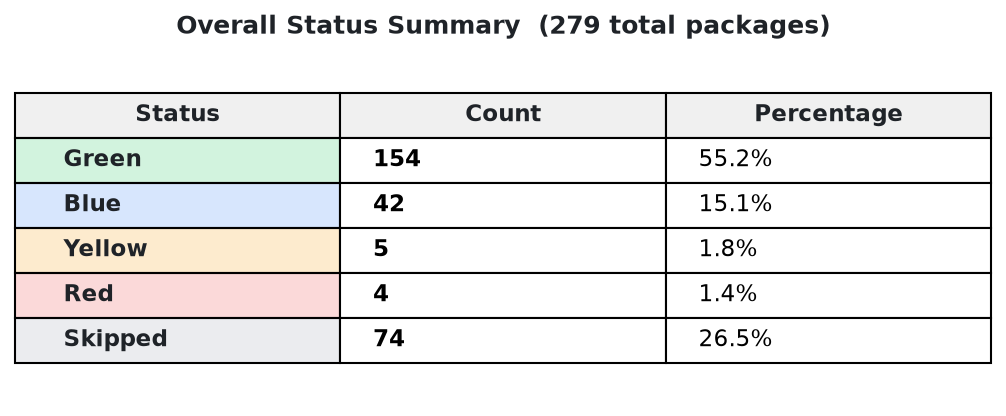
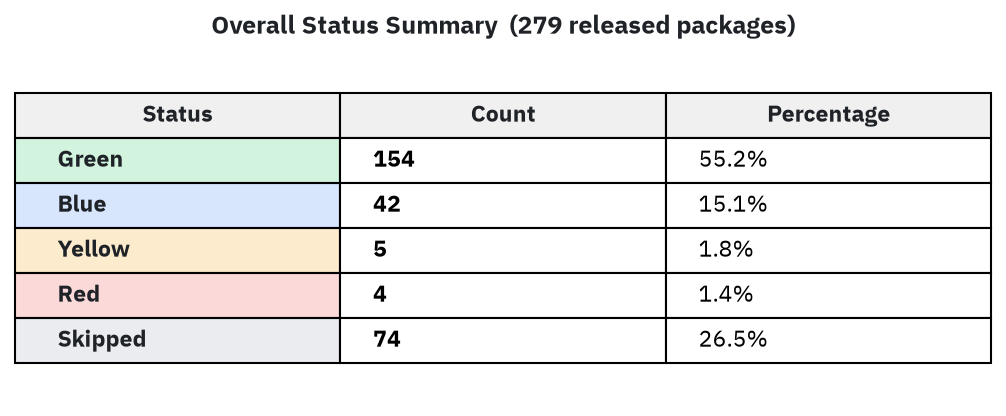
fix: clarify 279 released vs 345 total; add IBM Plex Sans to charts; label centre 'released'

diff --git a/tools/getbinaries.py b/tools/getbinaries.py
@@ -14,8 +14,35 @@ import re # Ensure re is imported
 import subprocess # Keep if still used
 import shutil # Keep if still used
 from itertools import chain # Keep if still used
-rcParams.update({'figure.autolayout': True}) # Keep if still used
+rcParams.update({'figure.autolayout': True})
 import html # For escaping attribute values
+import urllib.request
+import tempfile
+import matplotlib.font_manager as fm
+
+def _load_ibm_plex_sans():
+    """Download IBM Plex Sans TTF files from the IBM/plex repo and register
+    them with matplotlib. Falls back silently to the default sans-serif font
+    if the download fails (e.g. no network on the build host)."""
+    PLEX_URLS = {
+        "IBMPlexSans-Regular":  "https://github.com/IBM/plex/raw/refs/heads/master/packages/plex-sans/fonts/complete/ttf/IBMPlexSans-Regular.ttf",
+        "IBMPlexSans-Bold":     "https://github.com/IBM/plex/raw/refs/heads/master/packages/plex-sans/fonts/complete/ttf/IBMPlexSans-Bold.ttf",
+        "IBMPlexSans-SemiBold": "https://github.com/IBM/plex/raw/refs/heads/master/packages/plex-sans/fonts/complete/ttf/IBMPlexSans-SemiBold.ttf",
+    }
+    font_dir = os.path.join(tempfile.gettempdir(), "ibm_plex_fonts")
+    os.makedirs(font_dir, exist_ok=True)
+    try:
+        for name, url in PLEX_URLS.items():
+            dest = os.path.join(font_dir, f"{name}.ttf")
+            if not os.path.exists(dest):
+                urllib.request.urlretrieve(url, dest)
+            fm.fontManager.addfont(dest)
+        mpl.rcParams['font.family'] = 'IBM Plex Sans'
+        print("IBM Plex Sans fonts loaded.", file=sys.stderr)
+    except Exception as e:
+        print(f"Warning: could not load IBM Plex Sans ({e}), using default font.", file=sys.stderr)
+
+_load_ibm_plex_sans()
 
 def get_status_color(passed_tests, total_tests, has_releases):
     if not total_tests:
@@ -255,14 +282,14 @@ if any(progressPerStatus.values()):
         wedgeprops=dict(width=0.55, edgecolor='white', linewidth=2),  # donut
     )
 
-    # Centre text: total package count
+    # Centre text: total released package count
     ax.text(0, 0.08, str(total),  ha='center', va='center',
             fontsize=22, fontweight='bold', color='#1f2328')
-    ax.text(0, -0.18, 'packages', ha='center', va='center',
+    ax.text(0, -0.18, 'released', ha='center', va='center',
             fontsize=10, color='#57606a')
 
-    ax.set_title('Current Porting Status', fontsize=13, fontweight='bold',
-                 color='#1f2328', pad=12)
+    ax.set_title('Current Porting Status\n(released packages)',
+                 fontsize=12, fontweight='bold', color='#1f2328', pad=12)
 
     # Legend with count + percentage on the right side
     legend_labels = [f"{lbl}  {cnt}  ({cnt/total*100:.1f}%)"
@@ -320,7 +347,7 @@ if any(progressPerStatus.values()):
         tbl[0, j].set_facecolor('#f0f0f0')
         tbl[0, j].set_text_props(fontweight='bold', color='#1f2328')
 
-    ax_tbl.set_title(f'Overall Status Summary  ({total_pkg} total packages)',
+    ax_tbl.set_title(f'Overall Status Summary  ({total_pkg} released packages)',
                      fontsize=12, fontweight='bold', color='#1f2328', pad=10)
 
     summary_chart_file = 'docs/images/progress_summary.png'

diff --git a/docs/Progress.md b/docs/Progress.md
@@ -1,4 +1,7 @@
 
+> **279 of 345** packages in the zopen community have been released and are tracked here.
+> The remaining 66 repos exist in the org but have not yet published a release.
+
 ## Overall Status
 * <span style="color:#22c55e">Green</span>: All tests passing
 * <span style="color:#3b82f6">Blue</span>: Most tests passing (>=75%)
